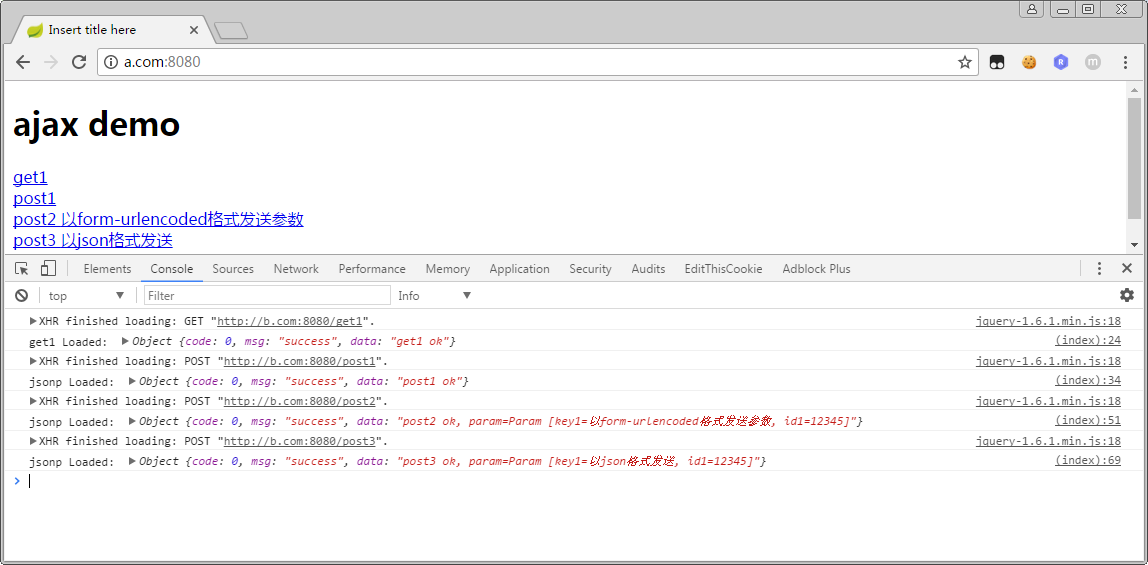
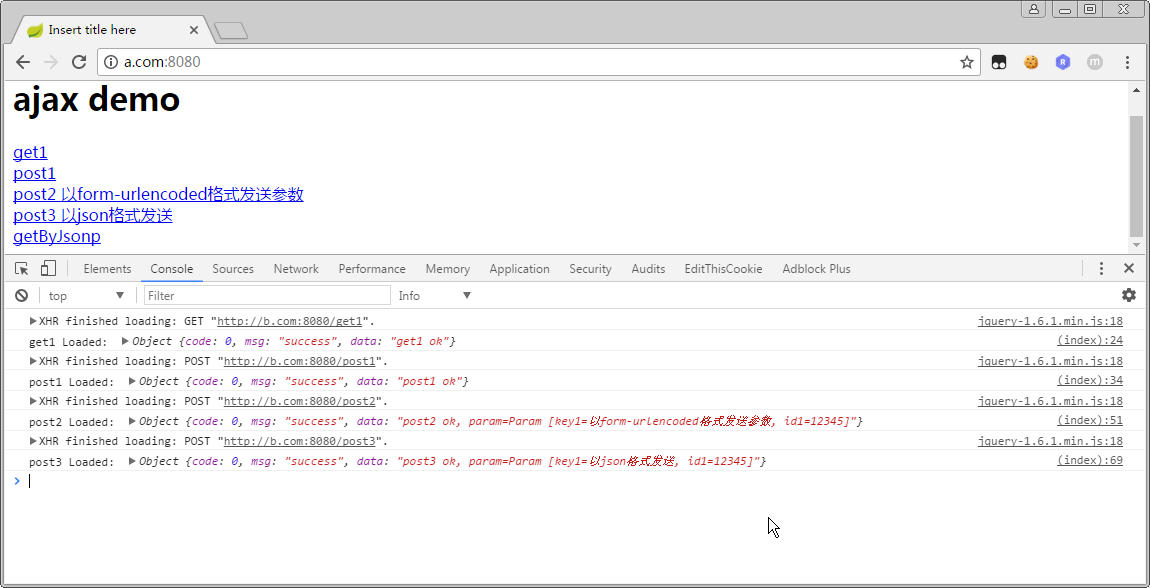
修改细节

Changed region(s): [[0.0, 0.0, 1.0, 0.8425], [0.8537, 0.5416, 0.9756, 0.8425], [0.8841, 0.0, 1.0, 0.0301]]

diff --git a/ajaxdemo/src/main/resources/static/index.html b/ajaxdemo/src/main/resources/static/index.html
@@ -31,7 +31,7 @@
 				url : "http://b.com:8080/post1",
 				dataType : "json",
 				success : function(data) {
-					console.log("jsonp Loaded: ", data);
+					console.log("post1 Loaded: ", data);
 				}
 			});
 		}
@@ -48,7 +48,7 @@
 				url : "http://b.com:8080/post2",
 				dataType : "json",
 				success : function(data) {
-					console.log("jsonp Loaded: ", data);
+					console.log("post2 Loaded: ", data);
 				}
 			});
 		}
@@ -66,7 +66,7 @@
 				url : "http://b.com:8080/post3",
 				dataType : "json",
 				success : function(data) {
-					console.log("jsonp Loaded: ", data);
+					console.log("post3 Loaded: ", data);
 				}
 			});
 		}

diff --git a/ajaxdemo/src/main/resources/static/nginx.html b/ajaxdemo/src/main/resources/static/nginx.html
@@ -31,7 +31,7 @@
 				url : "/bcom/post1",
 				dataType : "json",
 				success : function(data) {
-					console.log("jsonp Loaded: ", data);
+					console.log("post1 Loaded: ", data);
 				}
 			});
 		}
@@ -48,7 +48,7 @@
 				url : "/bcom/post2",
 				dataType : "json",
 				success : function(data) {
-					console.log("jsonp Loaded: ", data);
+					console.log("post2 Loaded: ", data);
 				}
 			});
 		}
@@ -66,7 +66,7 @@
 				url : "/bcom/post3",
 				dataType : "json",
 				success : function(data) {
-					console.log("jsonp Loaded: ", data);
+					console.log("post3 Loaded: ", data);
 				}
 			});
 		}
